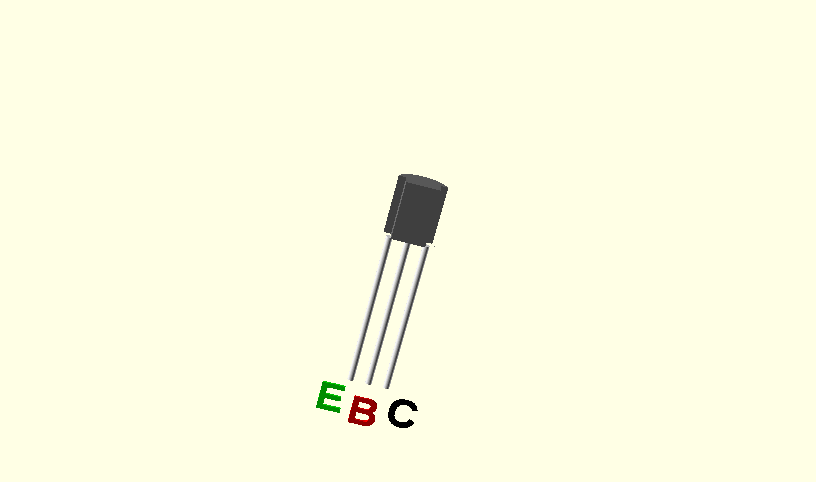
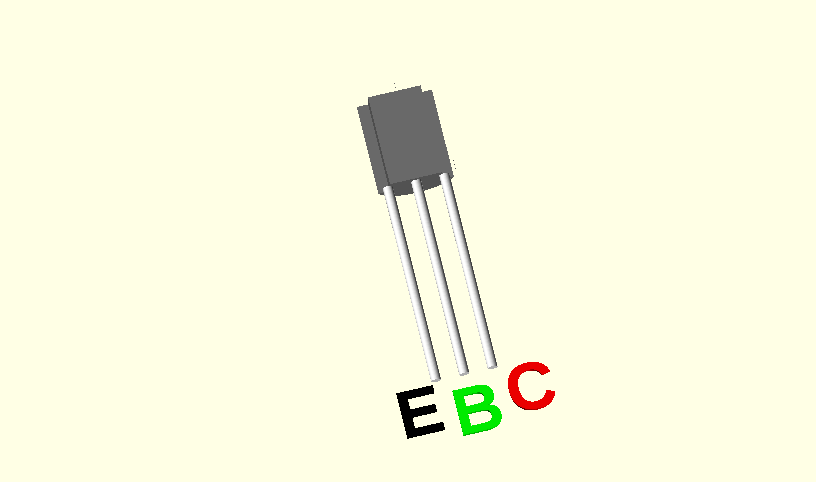
Changed colors of PN2222 pins, and fixed corresponding text in 4d-speakers/circuit.md.

Changed region(s): [[0.3676, 0.1556, 0.7047, 0.9025]]

diff --git a/4-Sound/4d-speakers/circuit.md b/4-Sound/4d-speakers/circuit.md
@@ -70,12 +70,12 @@ The circuit with the speaker connected to the transistor is shown below:
 For reference, the specific transistor used in this circuit is a PN2222.  
 Viewed from the "front", or flat side, the pins are labelled:
 
-* **E** (green) will generally be connected to a controlling pin on the Arduino
+* **E** (black) goes to `GND`
 
-* **B** (red) will generally be connected to the device whose power the
+* **B** (green) will generally be connected to a controlling pin on the Arduino
+
+* **C** (red) will generally be connected to the device whose power the
 transistor is controlling.
-
-* **C** (black) goes to `GND`
 
 | Pinouts for the PN2222           |
 |:--------------------------------:|
